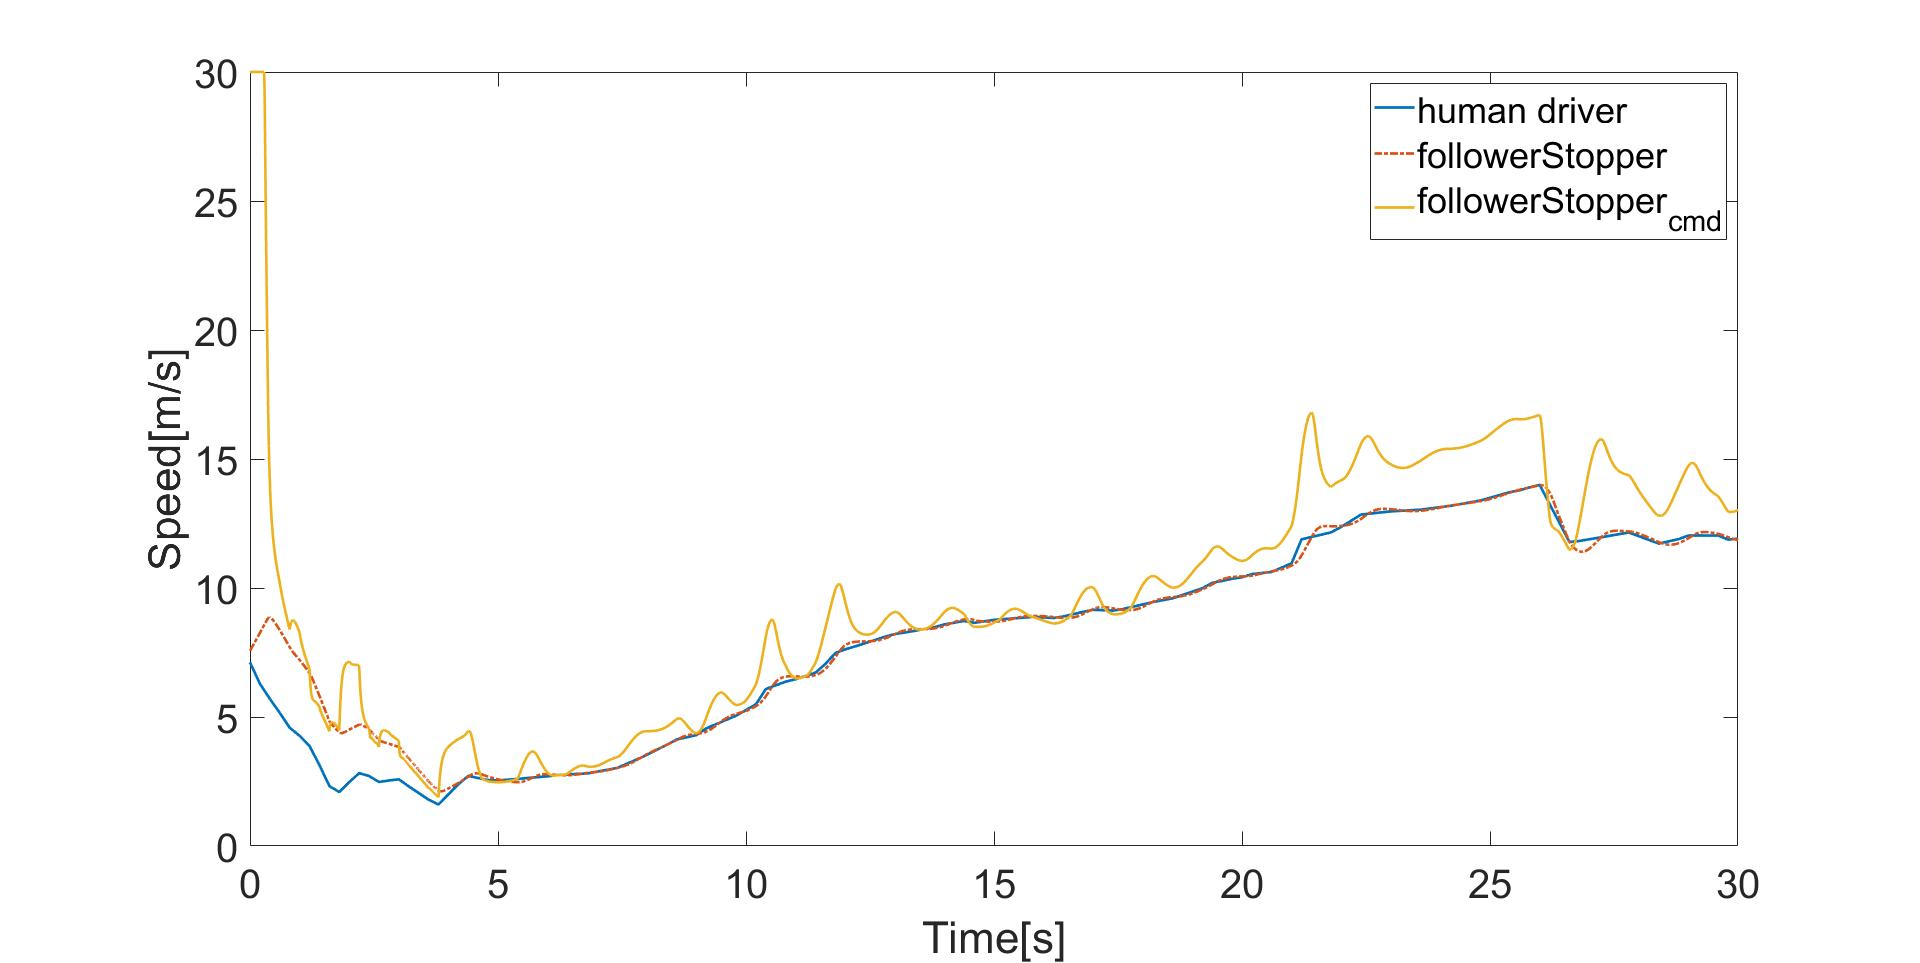
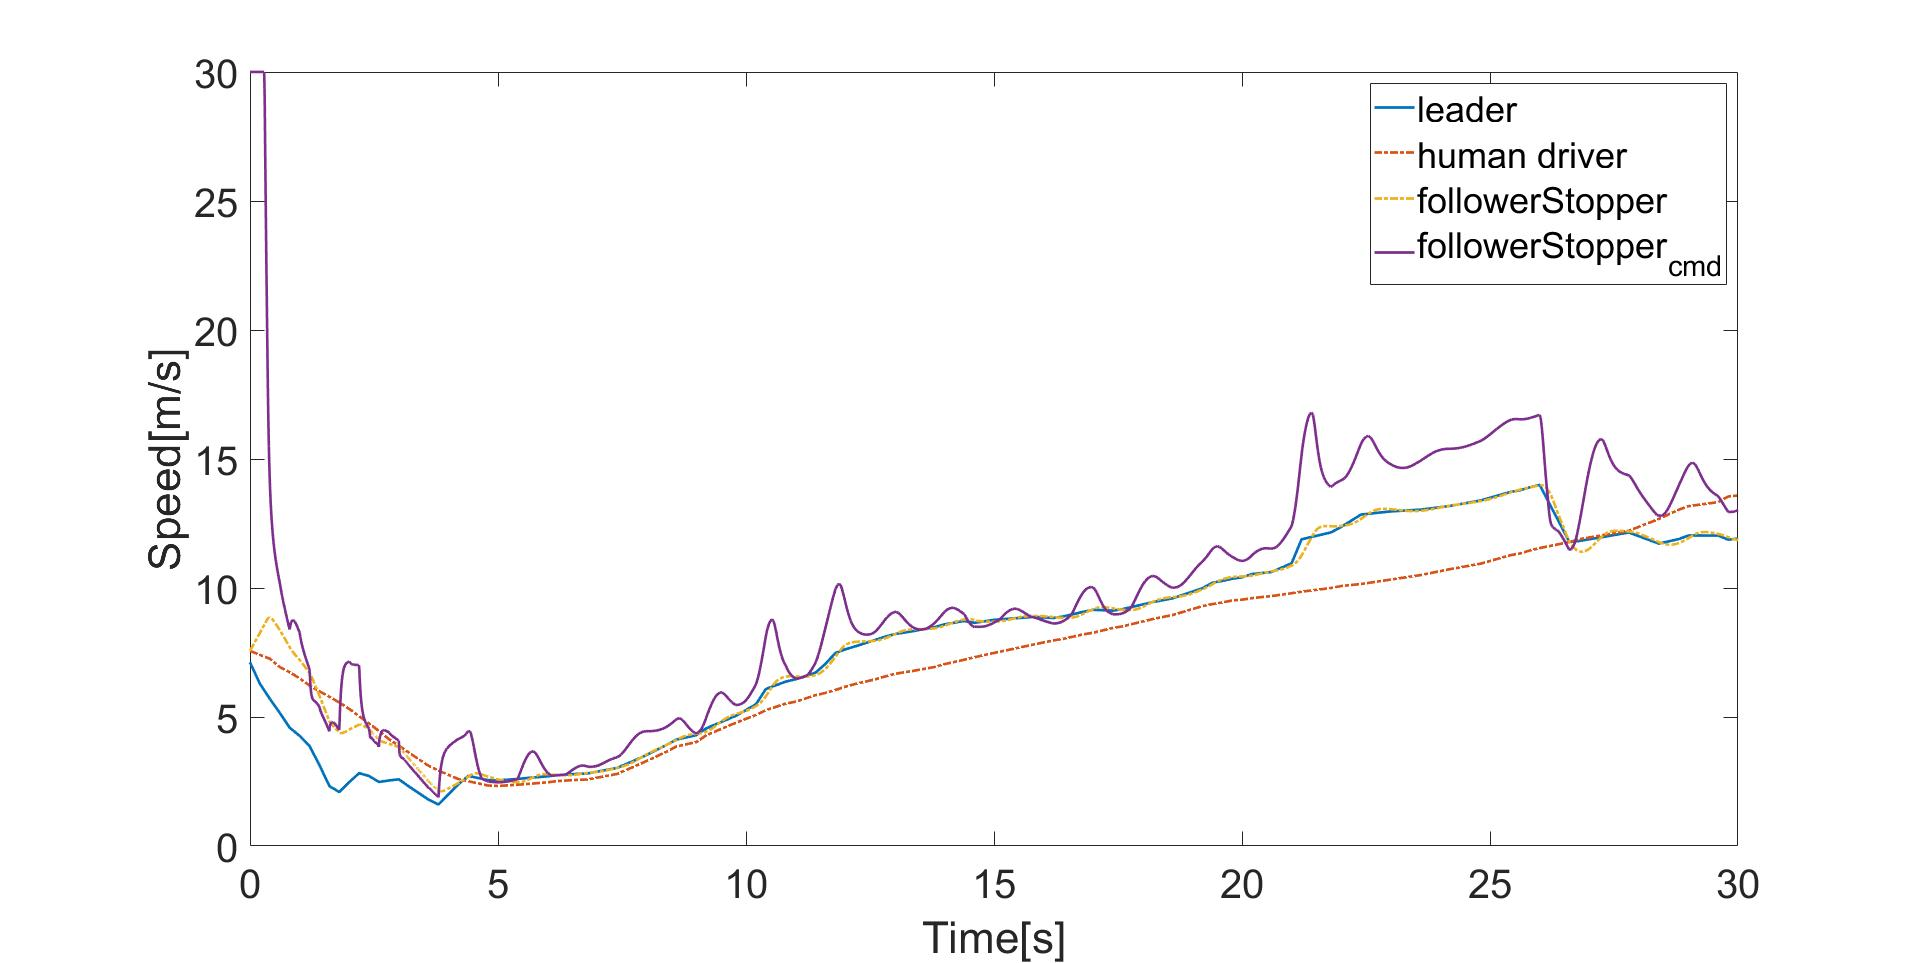
extract second set of field test data for simulation

diff --git a/followerStopper_modelB/main_followerStopper_vs_humam.m b/followerStopper_modelB/main_followerStopper_vs_humam.m
@@ -21,8 +21,25 @@ plot(raw_data_time,raw_data_v_f)
 figure()
 plot(raw_data_time,raw_data_d_rel)
 
-%%  TODO == extract a period that v_f is greater than 20 m/s and following a leader for at least 10 seconds
+%%  High speed data
+% temp_t_init = 3329;
+% temp_t_end = 3358;
+% 
+% [~,temp_index_init] = min(abs(raw_data_time-temp_t_init));
+% [~,temp_index_end] = min(abs(raw_data_time-temp_t_end));
+% 
+% test_data_d_rel = raw_data_d_rel(temp_index_init:temp_index_end);
+% test_data_v_lead = raw_data_v_lead(temp_index_init:temp_index_end);
+% test_data_v_f = raw_data_v_f(temp_index_init:temp_index_end);
+% test_data_time = raw_data_time(temp_index_init:temp_index_end);
+% test_data_v_rel = raw_data_v_rel(temp_index_init:temp_index_end);
+% 
+% 
+% global data_time data_lead_spd
+% data_time = test_data_time-test_data_time(1);
+% data_lead_spd = test_data_v_lead;
 
+%% Low speed data
 temp_t_init = 18410;
 temp_t_end = 18510;
 
@@ -39,6 +56,8 @@ test_data_v_rel = raw_data_v_rel(temp_index_init:temp_index_end);
 global data_time data_lead_spd
 data_time = test_data_time-test_data_time(1);
 data_lead_spd = test_data_v_lead;
+
+
 %% simulate the follower stopper with the field test data
 d_rel_0 = test_data_d_rel(1);
 v_lead_0 = test_data_v_lead(1);
@@ -47,7 +66,7 @@ v_f_0 = test_data_v_f(1);
 uMin = -5.3;
 uMax = 3.5;
 params.external_r = 30;
-tspan = [0 30];
+tspan = [0 min([30,data_time(end)])];
 params.delay_size = 0.0;
 params.d_Min = -3.5;
 
@@ -86,12 +105,13 @@ xlim([0 t(end)])
 figure()
 plot(data_time,data_lead_spd,'LineWidth',2)
 hold on
+plot(data_time,test_data_v_f,'-.','LineWidth',2)
 plot(t,v_f,'-.','LineWidth',2)
 plot(t,v_cmd,'LineWidth',2)
 xlabel('Time[s]','FontSize',30)
 ylabel('Speed[m/s]','FontSize',30)
 set(gca,'FontSize',30)
-legend('human driver','followerStopper','followerStopper_{cmd}')
+legend('leader','human driver','followerStopper','followerStopper_{cmd}')
 xlim([0 t(end)])
 
 %%
